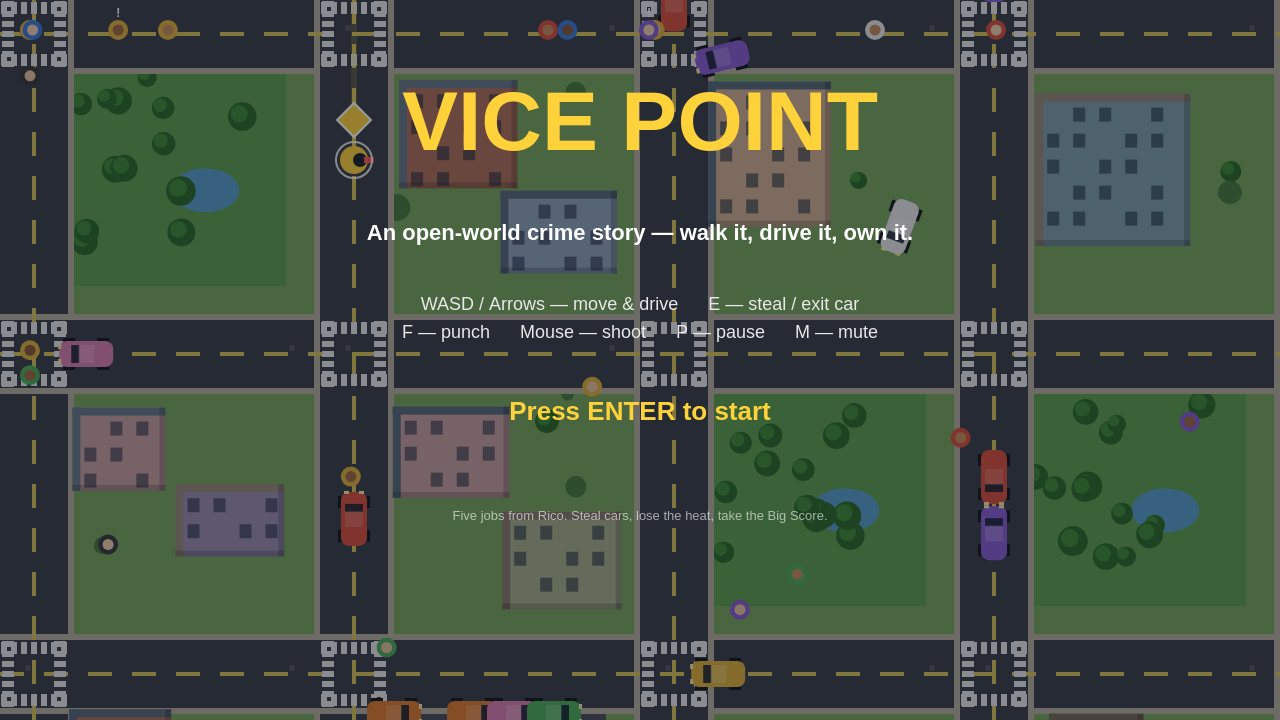
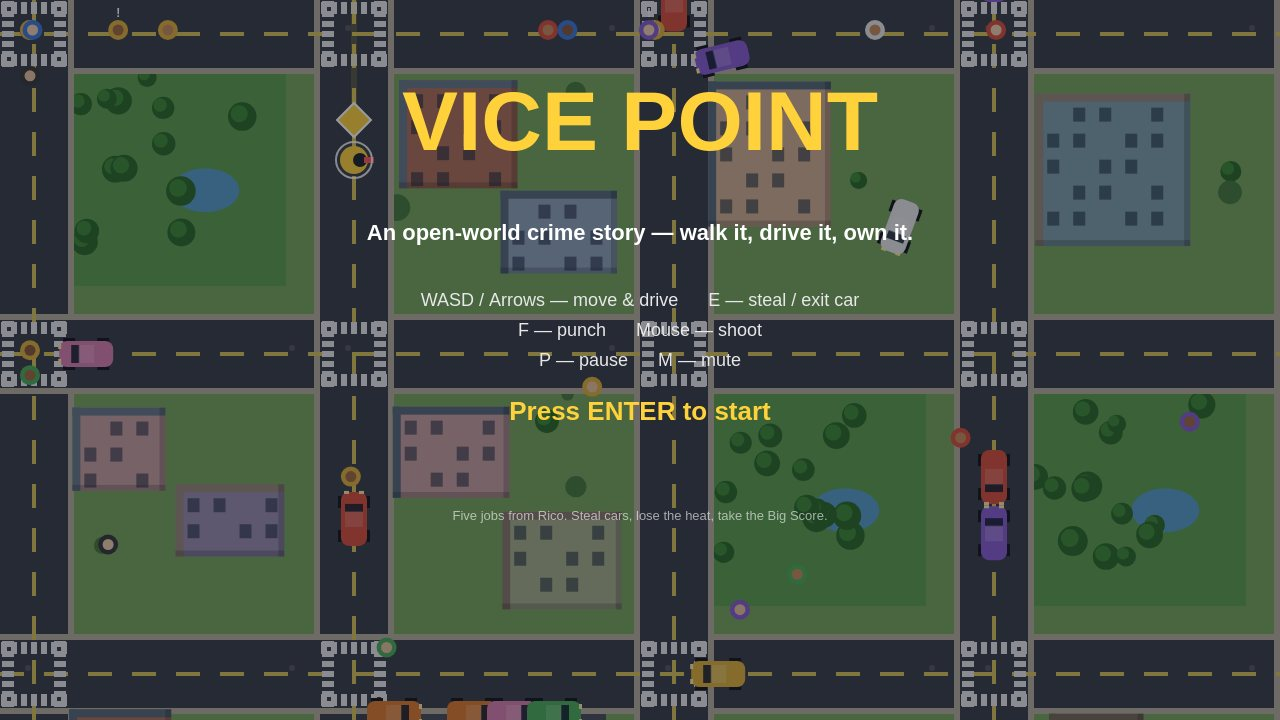
Fix HUD text overlap: title controls on two lines, WANTED label on its own row below stars

Changed region(s): [[0.3125, 0.3972, 0.6875, 0.5194], [0.625, 0.4583, 0.6875, 0.4889]]

diff --git a/game/src/render.js b/game/src/render.js
@@ -271,9 +271,11 @@ function drawHud(ctx, world) {
     ctx.fillText('★', 16 + i * 30, 12);
   }
   if (world.wanted > 0) {
+    // Its own row below the stars: at y=44 the star glyphs' lower points
+    // touched the top of the letters.
     ctx.font = 'bold 13px sans-serif';
     ctx.fillStyle = '#ff5a5a';
-    ctx.fillText('WANTED', 16, 44);
+    ctx.fillText('WANTED', 16, 52);
   }
   // Money and health, top right.
   ctx.textAlign = 'right';
@@ -380,8 +382,11 @@ function drawScreen(ctx, world, screen, best, hasSave) {
     ctx.fillText('An open-world crime story — walk it, drive it, own it.', VIEW_W / 2, 240);
     ctx.font = '18px sans-serif';
     ctx.fillStyle = '#e8e8e8';
-    ctx.fillText('WASD / Arrows — move & drive      E — steal / exit car', VIEW_W / 2, 310);
-    ctx.fillText('F — punch      Mouse — shoot      P — pause      M — mute', VIEW_W / 2, 338);
+    ctx.fillText('WASD / Arrows — move & drive      E — steal / exit car', VIEW_W / 2, 306);
+    // Controls on two lines: on one line the four items crowd together and
+    // the "P" of pause reads as touching the end of "shoot" at a glance.
+    ctx.fillText('F — punch      Mouse — shoot', VIEW_W / 2, 336);
+    ctx.fillText('P — pause      M — mute', VIEW_W / 2, 366);
     ctx.fillStyle = '#ffd23c';
     ctx.font = 'bold 26px sans-serif';
     const blink = Math.sin(world.time * 4) > -0.2;
